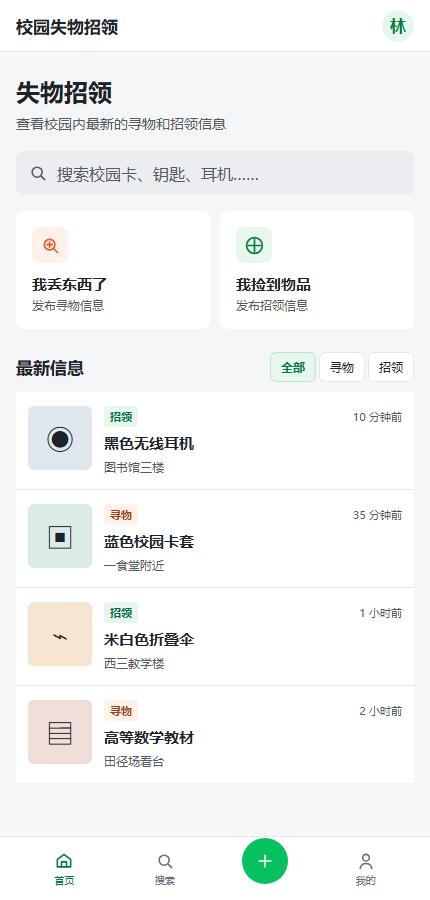
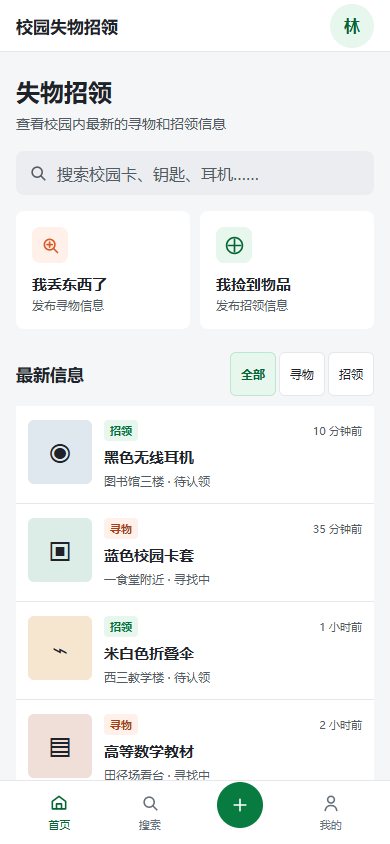
fix: 完善发布状态流程并记录11项回归与项目报告

diff --git a/style.css b/style.css
@@ -1,1 +1,6 @@
 :root{--bg:#f5f6f7;--surface:#fff;--text:#1f2329;--sub:#525a64;--line:#e5e7eb;--green:#087c40;--green-dark:#056532;--orange:#d95d27;font-family:"Microsoft YaHei","PingFang SC",system-ui,sans-serif;color:var(--text);background:#dfe3e6}*{box-sizing:border-box}body{margin:0;background:var(--bg)}button,input,select,textarea{font:inherit;color:inherit}.app-shell{width:min(100%,430px);min-height:100vh;margin:auto;background:var(--bg);position:relative;padding-bottom:76px}.topbar{height:52px;padding:0 16px;background:var(--surface);display:flex;align-items:center;justify-content:space-between;border-bottom:1px solid var(--line);position:sticky;top:0;z-index:5}.brand{border:0;background:none;font-size:17px;font-weight:700;padding:0;cursor:pointer}.avatar{width:32px;height:32px;border:0;border-radius:50%;background:#e7f7ee;color:var(--green-dark);font-weight:700;cursor:pointer}.page{display:none;padding:0 16px 24px;min-height:calc(100vh - 128px)}.page.active{display:block}.hero{padding:24px 0 16px}.hero h1,.page-title h1{font-size:24px;margin:0;font-weight:700}.hero>p{font-size:14px;color:var(--sub);margin:7px 0 18px}.search-entry,.search-box{width:100%;height:44px;border:0;border-radius:8px;background:#ebedf0;display:flex;align-items:center;gap:9px;padding:0 12px;color:var(--sub);box-shadow:none}.search-entry{cursor:pointer}.search-entry svg,.search-box svg,.back svg,.bottom-nav svg{width:20px;height:20px}svg{fill:none;stroke:currentColor;stroke-width:1.9;stroke-linecap:round;stroke-linejoin:round}.quick-actions{display:grid;grid-template-columns:1fr 1fr;gap:10px;margin:0 0 18px}.quick-actions button{border:0;border-radius:8px;background:var(--surface);padding:16px;text-align:left;cursor:pointer}.quick-actions strong,.quick-actions small{display:block}.quick-actions strong{margin-top:11px;font-size:15px}.quick-actions small{color:var(--sub);font-size:12px;margin-top:3px}.action-icon{width:36px;height:36px;border-radius:8px;display:grid;place-items:center}.action-icon svg{width:21px}.action-icon.coral{background:#fff0e9;color:var(--orange)}.action-icon.teal{background:#e7f7ee;color:var(--green-dark)}.section-head{display:flex;justify-content:space-between;align-items:center;margin:23px 0 10px}.section-head h2{font-size:17px;margin:0}.segmented{display:flex;gap:3px}.segmented button,.chips button{border:1px solid var(--line);background:var(--surface);border-radius:6px;padding:6px 10px;font-size:12px;cursor:pointer}.segmented .active{background:#e7f7ee;border-color:#b9e8ce;color:var(--green-dark);font-weight:700}.feed{display:grid;gap:1px;background:var(--line)}.item{width:100%;display:grid;grid-template-columns:64px 1fr;gap:12px;padding:14px 12px;border:0;background:var(--surface);text-align:left;cursor:pointer}.item-visual{height:64px;border-radius:6px;display:grid;place-items:center;font-size:28px}.item h3{margin:6px 0;font-size:15px}.item p{margin:0;color:var(--sub);font-size:12px}.item-top{display:flex;justify-content:space-between;align-items:center}.tag,.status-tag{font-size:11px;font-weight:700;padding:3px 6px;border-radius:4px}.tag.lost{background:#fff0e9;color:#a53d17}.tag.found{background:#e7f7ee;color:#04713a}.item time,.time{font-size:11px;color:var(--sub)}.page-title{display:flex;gap:12px;align-items:center;padding:18px 0}.page-title p{margin:3px 0 0;color:var(--sub);font-size:12px}.back{width:38px;height:38px;border:1px solid var(--line);background:var(--surface);border-radius:8px;display:grid;place-items:center;cursor:pointer}.search-box input{border:0;outline:0;background:none;flex:1}.search-box button{border:0;background:none;font-size:22px;color:var(--sub);cursor:pointer}.chips{display:flex;gap:8px;flex-wrap:wrap;margin:12px 0 22px}.search-meta{font-size:15px;font-weight:700;margin-bottom:10px}form{display:grid;gap:16px}fieldset{border:0;padding:0;margin:0}legend,form>label,.form-row label{font-size:13px;font-weight:700}form input,form select,form textarea{width:100%;border:1px solid var(--line);border-radius:7px;background:var(--surface);padding:12px;margin-top:7px;outline:none}form input:focus,form select:focus,form textarea:focus{border-color:var(--green)}form textarea{min-height:94px;resize:vertical}form label small{display:block;color:var(--sub);font-size:11px;font-weight:400;line-height:1.5;margin-top:5px}.form-row{display:grid;grid-template-columns:1fr 1fr;gap:10px}.type-choice{display:grid;grid-template-columns:1fr 1fr;gap:8px;margin-top:7px}.type-choice input{position:absolute;opacity:0}.type-choice span{display:block;border:1px solid var(--line);background:var(--surface);border-radius:7px;padding:11px;text-align:center}.type-choice input:checked+span{background:#e7f7ee;color:var(--green-dark);border-color:#9cddb9;font-weight:700}.primary,.secondary{width:100%;height:46px;border-radius:7px;font-weight:700;cursor:pointer}.primary{border:0;background:var(--green);color:white}.primary:hover{background:var(--green-dark)}.secondary{border:1px solid var(--line);background:var(--surface);margin-top:10px}.detail-cover{height:190px;margin:0 -16px;background:#e9edf0;position:relative;display:grid;place-items:center;font-size:78px}.back.floating{position:absolute;left:16px;top:14px}.detail-card{background:var(--surface);margin:0 -16px;padding:20px 16px}.tag-row{display:flex;justify-content:space-between}.detail-card h1{font-size:23px;margin:15px 0 9px}.detail-description{color:var(--sub);font-size:14px;line-height:1.7}.detail-card dl{margin:20px 0;border-top:1px solid var(--line)}.detail-card dl div{display:flex;justify-content:space-between;padding:13px 0;border-bottom:1px solid var(--line)}dt{color:var(--sub);font-size:12px}dd{margin:0;font-weight:700;font-size:12px}.safety{display:flex;gap:10px;background:#f2f9f5;border-radius:7px;padding:12px;margin-bottom:16px}.safety svg{width:23px;min-width:23px;color:var(--green-dark)}.safety p{margin:0;font-size:12px;line-height:1.55}.safety strong{display:block}.success-wrap{text-align:center;padding:100px 22px 0}.success-icon{width:68px;height:68px;border-radius:50%;display:grid;place-items:center;margin:auto;background:#e7f7ee;color:var(--green-dark)}.success-icon svg{width:35px}.success-wrap h1{font-size:26px;margin:22px 0 8px}.success-wrap p{color:var(--sub);font-size:14px;line-height:1.7;margin-bottom:26px}.profile{display:flex;align-items:center;gap:12px;background:var(--surface);padding:16px;margin-bottom:16px}.avatar.large{width:44px;height:44px;display:grid;place-items:center}.profile strong,.profile span{display:block}.profile span{color:var(--sub);font-size:12px;margin-top:3px}.bottom-nav{position:fixed;z-index:10;bottom:0;left:50%;transform:translateX(-50%);width:min(100%,430px);height:64px;background:var(--surface);border-top:1px solid var(--line);display:grid;grid-template-columns:1fr 1fr 1fr 1fr;align-items:center;padding:5px 14px}.bottom-nav button{border:0;background:none;display:grid;place-items:center;gap:2px;color:#66707a;font-size:11px;cursor:pointer}.bottom-nav button.active{color:var(--green-dark)}.bottom-nav .publish-fab{width:46px;height:46px;border-radius:50%;background:var(--green);color:white;justify-self:center;transform:translateY(-8px)}.bottom-nav .publish-fab svg{width:24px}.toast{position:fixed;left:50%;bottom:80px;transform:translate(-50%,10px);background:rgba(0,0,0,.78);color:white;padding:10px 14px;border-radius:6px;opacity:0;pointer-events:none;transition:.18s;z-index:20;font-size:12px}.toast.show{opacity:1;transform:translate(-50%,0)}.empty{background:var(--surface);margin:0;padding:30px;text-align:center;color:var(--sub)}:focus-visible{outline:3px solid rgba(7,193,96,.35);outline-offset:2px}::selection{background:#bdebcf;color:var(--text)}@media(min-width:1000px){body{padding:28px}.app-shell{min-height:880px}.bottom-nav{bottom:28px}.page{min-height:752px}}@media(prefers-reduced-motion:reduce){*{transition:none!important}}
+
+[hidden]{display:none!important}.search-box input{min-width:0;width:100%}.form-note{margin:0;color:var(--sub);font-size:12px;line-height:1.6}.item h3,.item p,.detail-card h1,dd{overflow-wrap:anywhere}.item>span:last-child{min-width:0}.segmented button,.chips button,.back,.avatar,.bottom-nav button{min-height:44px;min-width:44px}.type-choice input:focus-visible+span{outline:2px solid var(--green);outline-offset:2px}.toast{max-width:calc(100% - 32px);overflow-wrap:anywhere}.form-row{grid-template-columns:minmax(0,1fr) minmax(0,1fr)}
+[hidden]{display:none!important}
+.form-row label,.form-row input,.form-row select{min-width:0;max-width:100%}
+.type-choice label{position:relative}.type-choice input{width:1px;height:1px;margin:0;padding:0;left:0;top:0}

diff --git a/app.js b/app.js
@@ -7,16 +7,21 @@ const items=[
 const state={filter:'all',selected:items[0],mine:[items[1]]};
 const pages=[...document.querySelectorAll('.page')];
 const nav=[...document.querySelectorAll('.bottom-nav button[data-page]')];
-const itemCard=i=>`<button class="item" data-id="${i.id}"><span class="item-visual" style="background:${i.color}">${i.symbol}</span><span><span class="item-top"><span class="tag ${i.type}">${i.type==='lost'?'寻物':'招领'}</span><time>${i.time}</time></span><h3>${i.title}</h3><p>${i.place}</p></span></button>`;
+const escapeHTML=value=>String(value).replace(/[&<>"']/g,c=>({'&':'&amp;','<':'&lt;','>':'&gt;','"':'&quot;',"'":'&#39;'}[c]));
+const statusLabel=i=>i.resolved?(i.type==='lost'?'已找到':'已归还'):(i.type==='lost'?'寻找中':'待认领');
+const itemCard=i=>`<button class="item" data-id="${i.id}"><span class="item-visual" style="background:${i.color}">${i.symbol}</span><span><span class="item-top"><span class="tag ${i.type}">${i.type==='lost'?'寻物':'招领'}</span><time>${i.time}</time></span><h3>${escapeHTML(i.title)}</h3><p>${escapeHTML(i.place)} · ${statusLabel(i)}</p></span></button>`;
+function refreshFeeds(){renderFeed(state.filter==='all'?items:items.filter(i=>i.type===state.filter));renderFeed(state.mine,'mine-feed');search(document.getElementById('search-input').value);}
 function renderFeed(list=items,target='feed'){document.getElementById(target).innerHTML=list.length?list.map(itemCard).join(''):'<p class="empty">没有找到相关信息，换个关键词试试。</p>';}
 function showPage(id){pages.forEach(p=>p.classList.toggle('active',p.id===id));nav.forEach(b=>b.classList.toggle('active',b.dataset.page===id));document.querySelector('.bottom-nav').hidden=id==='success';window.scrollTo(0,0);}
-function showDetail(id){const i=items.find(x=>x.id===Number(id))||state.mine.find(x=>x.id===Number(id));state.selected=i;document.getElementById('detail-cover').style.background=i.color;document.getElementById('detail-symbol').textContent=i.symbol;const tag=document.getElementById('detail-type');tag.textContent=i.type==='lost'?'寻物信息':'招领信息';tag.className=`status-tag tag ${i.type}`;document.getElementById('detail-time').textContent=i.time;document.getElementById('detail-title').textContent=i.title;document.getElementById('detail-description').textContent=i.description;document.getElementById('detail-place').textContent=i.place;document.getElementById('detail-date').textContent=i.date;showPage('detail');}
+function showDetail(id){const i=items.find(x=>x.id===Number(id))||state.mine.find(x=>x.id===Number(id));if(!i)return;state.selected=i;document.getElementById('detail-cover').style.background=i.color;document.getElementById('detail-symbol').textContent=i.symbol;const tag=document.getElementById('detail-type');tag.textContent=i.type==='lost'?'寻物信息':'招领信息';tag.className=`status-tag tag ${i.type}`;document.getElementById('detail-time').textContent=i.time;document.getElementById('detail-title').textContent=i.title;document.getElementById('detail-description').textContent=i.description;document.getElementById('detail-place').textContent=i.place;document.getElementById('detail-date').textContent=i.date;document.getElementById('detail-status').textContent=statusLabel(i);const manage=document.getElementById('resolve-btn');manage.hidden=!state.mine.includes(i);manage.textContent=i.resolved?'恢复为未完成':(i.type==='lost'?'标记已找到':'标记已归还');showPage('detail');}
 function toast(text){const el=document.getElementById('toast');el.textContent=text;el.classList.add('show');setTimeout(()=>el.classList.remove('show'),1800)}
 document.addEventListener('click',e=>{const page=e.target.closest('[data-page]');if(page)showPage(page.dataset.page);const publish=e.target.closest('[data-publish-type]');if(publish){showPage('publish');document.querySelector(`[name=type][value=${publish.dataset.publishType}]`).checked=true}const card=e.target.closest('.item');if(card)showDetail(card.dataset.id);const chip=e.target.closest('.chips button');if(chip){document.getElementById('search-input').value=chip.textContent;search(chip.textContent)}});
 document.querySelectorAll('[data-filter]').forEach(b=>b.addEventListener('click',()=>{document.querySelectorAll('[data-filter]').forEach(x=>x.classList.toggle('active',x===b));state.filter=b.dataset.filter;renderFeed(state.filter==='all'?items:items.filter(i=>i.type===state.filter))}));
 function search(value){const q=value.trim().toLowerCase();const found=items.filter(i=>`${i.title}${i.place}${i.description}`.toLowerCase().includes(q));document.getElementById('search-meta').textContent=q?`找到 ${found.length} 条相关信息`:'推荐信息';renderFeed(q?found:items,'search-results')}
 document.getElementById('search-input').addEventListener('input',e=>search(e.target.value));document.getElementById('clear-search').addEventListener('click',()=>{document.getElementById('search-input').value='';search('')});
-document.getElementById('publish-form').addEventListener('submit',e=>{e.preventDefault();const data=new FormData(e.currentTarget);const newItem={id:Date.now(),type:data.get('type'),title:data.get('title'),place:data.get('place'),time:'刚刚',date:data.get('date'),symbol:'◇',color:'#e7e4d8',description:data.get('description')};items.unshift(newItem);state.mine.unshift(newItem);renderFeed();renderFeed(state.mine,'mine-feed');e.currentTarget.reset();showPage('success')});
-document.getElementById('contact-btn').addEventListener('click',()=>toast('联系方式：QQ 仅在真实应用中展示'));
-document.querySelector('[name=date]').value=new Date().toISOString().slice(0,10);renderFeed();renderFeed(items,'search-results');renderFeed(state.mine,'mine-feed');
+function setDefaultDate(){const now=new Date();document.querySelector('[name=date]').value=new Date(now.getTime()-now.getTimezoneOffset()*60000).toISOString().slice(0,10);}
+document.getElementById('publish-form').addEventListener('submit',e=>{e.preventDefault();const data=new FormData(e.currentTarget);for(const name of ['title','description','contact']){if(!String(data.get(name)).trim()){toast('请填写物品名称、特征和联系方式，不能只输入空格。');return;}}const newItem={id:Date.now(),type:data.get('type'),title:data.get('title').trim(),place:data.get('place'),time:'刚刚',date:data.get('date'),symbol:'◇',color:'#e7e4d8',description:data.get('description').trim(),contact:data.get('contact').trim(),resolved:false};items.unshift(newItem);state.mine.unshift(newItem);refreshFeeds();e.currentTarget.reset();setDefaultDate();showPage('success')});
+document.getElementById('contact-btn').addEventListener('click',()=>toast(state.selected.contact?`联系方式：${state.selected.contact}`:'示例信息未提供真实联系方式。'));
+document.getElementById('resolve-btn').addEventListener('click',()=>{if(!state.mine.includes(state.selected))return;state.selected.resolved=!state.selected.resolved;refreshFeeds();showDetail(state.selected.id);toast('状态已更新（本次会话内）');});
+setDefaultDate();refreshFeeds();
 const params=new URLSearchParams(location.search);if(params.has('capture'))document.documentElement.classList.add('capture');const preview=params.get('page');if(preview==='detail')showDetail(1);else if(preview&&document.getElementById(preview))showPage(preview);

diff --git a/index.html b/index.html
@@ -46,15 +46,17 @@
         <div class="page-title"><button class="back" data-page="home" aria-label="返回"><svg viewBox="0 0 24 24"><path d="m15 18-6-6 6-6"/></svg></button><div><h1 id="publish-title">发布信息</h1><p>准确的信息更容易被找到</p></div></div>
         <form id="publish-form">
           <fieldset><legend>信息类型</legend><div class="type-choice"><label><input type="radio" name="type" value="lost" checked><span>寻物</span></label><label><input type="radio" name="type" value="found"><span>招领</span></label></div></fieldset>
-          <label>物品名称<input name="title" required placeholder="例如：蓝色校园卡套"></label>
+          <p class="form-note">必填字段请完整填写。请使用虚构联系方式进行演示；新增信息仅保留在本次会话中。</p>
+          <label>物品名称（必填）<input name="title" required maxlength="60" placeholder="例如：蓝色校园卡套"></label>
           <div class="form-row"><label>时间<input name="date" type="date" required></label><label>地点<select name="place"><option>教学楼</option><option>图书馆</option><option>食堂</option><option>宿舍区</option><option>运动场</option><option>其他</option></select></label></div>
           <label>物品特征<textarea name="description" required maxlength="120" placeholder="颜色、品牌、明显特征等，避免填写隐私信息"></textarea><small>建议保留一项关键特征，用于核对认领人身份。</small></label>
-          <label>联系方式<input name="contact" required placeholder="QQ / 微信 / 手机号"></label>
+          <label>联系方式（必填）<input name="contact" required maxlength="80" placeholder="演示用虚构 QQ / 微信 / 手机号"></label>
           <button class="primary" type="submit">确认发布</button>
         </form>
       </section>
 
       <section class="page" id="detail" aria-labelledby="detail-title">
+        <button class="secondary" id="resolve-btn" hidden>更新状态</button>
         <div class="detail-cover" id="detail-cover"><button class="back floating" data-page="home" aria-label="返回"><svg viewBox="0 0 24 24"><path d="m15 18-6-6 6-6"/></svg></button><span id="detail-symbol"></span></div>
         <article class="detail-card"><div class="tag-row"><span class="status-tag" id="detail-type"></span><span class="time" id="detail-time"></span></div><h1 id="detail-title"></h1><p class="detail-description" id="detail-description"></p><dl><div><dt>发现 / 遗失地点</dt><dd id="detail-place"></dd></div><div><dt>发布时间</dt><dd id="detail-date"></dd></div><div><dt>当前状态</dt><dd id="detail-status">寻找中</dd></div></dl><div class="safety"><svg viewBox="0 0 24 24"><path d="M12 3 4 6v5c0 5 3.4 8.4 8 10 4.6-1.6 8-5 8-10V6z"/><path d="m9 12 2 2 4-5"/></svg><p><strong>安全提示</strong>认领时请核对物品特征，并选择校园公共区域交接。</p></div><button class="primary" id="contact-btn">联系发布者</button></article>
       </section>

diff --git a/项目报告.md b/项目报告.md
@@ -1,0 +1,108 @@
+| 项目内容 | 说明 |
+| --- | --- |
+| 这个作业属于哪个课程 | [2026 秋软件工程](https://edu.cnblogs.com/campus/fzu/2026-01SoftwareEngineeringandSoftwareEngineeringPractice) |
+| 这个作业要求在哪里 | [作业页面](https://edu.cnblogs.com/campus/fzu/2026-01SoftwareEngineeringandSoftwareEngineeringPractice/homework/16745) |
+| 这个作业的目标 | 完善校园失物招领交互流程，建立协作空间，完成测试与问题修复 |
+| 学号 | 052404129 |
+| 姓名 | 林彦羽 |
+| GitHub 仓库 | [项目仓库](https://github.com/LLL-1121/campus-lost-found-prototype) |
+| 在线演示 | [打开页面](https://lll-1121.github.io/campus-lost-found-prototype/) |
+
+# 校园失物招领：流程完善、测试与协作准备
+
+## 1. 项目与完成方式
+
+本项目针对校园寻物和招领信息分散、容易被群消息覆盖的问题，集中展示物品名称、特征、地点和时间。主要用户是失主和拾物者，核心流程为“发布信息 → 浏览或搜索 → 查看详情 → 联系发布者 → 更新处理状态”。
+
+本次由本人独立完成，Codex 辅助检查、修改和测试。仓库预留了真实协作者可以参与的任务与修改流程，目前没有第二名同学的实际工作记录。本报告不将 AI 辅助、自查或分支操作记作双人结对。
+
+本次交付为 HTML、CSS、JavaScript 浏览器交互原型。新增信息保存在页面内存中，刷新后恢复示例数据；没有 Python API、SQLite 持久化、登录认证或跨设备同步。参考材料中的多图上传、数据库迁移、权限系统等不属于本次实现。若课程要求完整后台或实际两人合作，仍需补齐相应要求。
+
+## 2. 需求与实现
+
+首页按寻物、招领类型筛选；搜索页匹配名称、地点和描述，并显示空结果。发布页要求填写名称、日期、地点、特征及联系方式；提交后进入成功页，在首页、搜索和我的发布中可查看新增信息。详情页展示状态，本人发布的信息可以标记“已找到”或“已归还”，也可以恢复为未完成。示例他人信息隐藏状态按钮。
+
+信息由 JavaScript 对象表示，使用 id、type、title、place、date、description、contact、resolved 等字段。列表统一由 renderFeed() 绘制；refreshFeeds() 同步首页筛选、搜索和我的发布，避免只更新一个视图。数据处理先检查必填文本去除空格后是否为空，再生成信息对象。列表中的用户文字统一转义，详情使用 textContent，避免输入被解释为 HTML。
+
+```javascript
+const statusLabel = i => i.resolved
+  ? (i.type === 'lost' ? '已找到' : '已归还')
+  : (i.type === 'lost' ? '寻找中' : '待认领');
+```
+
+“本人”身份通过当前会话内的我的发布列表判断，适用于演示流程，不能替代服务端权限校验。联系方式仅使用虚构测试值，不上传真实个人信息。
+
+![用户流程](images/user-flow.svg)
+
+## 3. 页面展示
+
+![首页](images/home.png)
+
+![搜索](images/search.png)
+
+![详情](images/detail.png)
+
+![发布](images/publish.png)
+
+![发布成功](images/success.png)
+
+![320 像素窄屏发布页面](images/mobile-320.png)
+
+截图由实际浏览器自动化运行生成。页面沿用白色背景、绿色按钮和单列列表，不另取产品名字。
+
+## 4. 三次真实 AI 辅助过程
+
+| 子任务 | 提出的要求 | AI 实际完成 | 结果与调整 |
+| --- | --- | --- | --- |
+| 协作准备 | 预留可共享、可修改空间 | 增加 CONTRIBUTING、Issue 和 PR 模板，建立三个待认领任务 | 已合并；明确当前独立完成，未虚构搭档 |
+| 需求流程检查 | 完成三个任务并记录结果 | 检查实际代码，发现联系方式丢失、状态入口缺失和筛选不同步 | 保存 contact，增加本人状态操作和统一视图刷新 |
+| 测试与修复 | 检查发布、搜索和移动端 | 编写并运行 11 项 Edge 浏览器回归，发现 320 像素宽度表单溢出 | 定位隐藏单选框全宽定位，修复后全部通过 |
+
+以上记录来自本次实际操作。人工是否进行进一步修改尚未记录，不能把 AI 完成的修改写成人工改动。
+
+## 5. 测试结果
+
+环境：Windows，Microsoft Edge 无界面自动化，Playwright。最终运行时间为 2026-10-09 22:10:15—22:10:17（北京时间，完整时间见 tests/results.json）。这是桌面浏览器调整视口的测试，不是真机触摸测试。
+
+| 编号 | 测试内容 | 预期结果 | 实际结果 |
+| --- | --- | --- | --- |
+| T01 | 首页卡片进入详情 | 4 条初始信息，招领显示待认领，他人信息不可更新状态 | 通过 |
+| T02 | 名称与地点搜索 | 耳机、图书馆均命中对应信息 | 通过 |
+| T03 | 无结果及清空搜索 | 显示空提示，清空恢复推荐信息 | 通过 |
+| T04 | 空表单提交 | 原生必填校验阻止提交 | 通过 |
+| T05 | 全空格名称 | 拒绝并提示填写有效内容 | 通过 |
+| T06 | 合法发布 | 显示成功，我的发布新增记录，日期默认值恢复 | 通过 |
+| T07 | 联系方式和状态 | 虚构联系方式保留，已找到与寻找中可切换 | 通过 |
+| T08 | 筛选与招领完成 | 发布后保留招领筛选，完成文案为已归还 | 通过 |
+| T09 | HTML 形式名称 | 显示原文字，不生成图片节点 | 通过 |
+| T10 | 320/390/768/1440 宽度 | 首页、搜索、发布、我的均无横向溢出 | 修复后通过 |
+| T11 | 刷新及脚本错误 | 恢复 4 条示例信息，无页面脚本错误 | 通过 |
+
+首次 T10 失败：隐藏单选框继承 form input 的 width:100%，绝对定位后超出窄屏。修复为相对定位的标签与 1 像素隐藏输入后，完整回归通过。新增状态按钮的 hidden 属性也使用显式样式处理，避免 display 规则覆盖隐藏状态。
+
+运行测试：安装 Node.js 与开发测试工具 Playwright 后，执行 `node tests/regression.cjs`。测试使用机器上已经安装的 Edge，生产页面不依赖 Playwright。结果和截图由脚本生成，测试记录可复核。
+
+## 6. 仓库协作与签入
+
+仓库采用“任务 → 功能分支 → PR → 自查或真实协作者审查 → 合并”的流程。后续参与者可以 fork 仓库并提交 PR；直接写入需由维护者邀请真实账号。需求、页面和测试三类工作分别对应 Issue #2、#3、#4，本次由本人在 AI 辅助下处理。
+
+协作指南见 CONTRIBUTING.md；任务模板要求目标、范围、验收和实际记录；PR 模板要求运行验证与复核身份。本次 PR #1 已建立协作空间，后续修复和报告使用独立分支提交。仓库记录证明工作变化，不证明存在第二名同学。
+
+## 7. PSP 记录
+
+没有可靠计时的阶段不填写推测的实际耗时。下表用于后续人工补录；建议预算为事后规划参考，不声称是开发前的预估。原型早期草稿中的耗时也未在本次核实。
+
+| 阶段 | 建议预算（分钟） | 实际耗时 |
+| --- | ---: | --- |
+| 需求与流程复核 | 20 | 未连续计时 |
+| 代码检查与问题修复 | 40 | 未连续计时 |
+| 测试脚本与布局检查 | 30 | 未连续计时 |
+| 最终自动回归运行 | 1 | 约 1.56 秒（工具时间戳） |
+| 报告与仓库整理 | 25 | 未连续计时 |
+| 合计 | 116 | 无法可靠汇总 |
+
+## 8. 总结与后续
+
+这轮工作说明，界面可以点击不代表流程完整：联系方式是否保存、状态文案是否区分寻物和招领、筛选是否保持一致，都需要实际检查。自动化回归把正常操作与边界输入放在同一套可重复流程中，帮助发现窄屏布局问题。AI 能提高定位和修改速度，但测试结果仍需证据支持。
+
+后续实现完整应用时，应优先增加持久化和服务端权限校验，再考虑图片、分类筛选与多设备使用。本人的进一步试玩、实际耗时及真实搭档总结尚需本人补充。该报告记录当前仓库实际完成情况，不将演示原型描述为生产系统。

diff --git a/README.md b/README.md
@@ -21,6 +21,16 @@ python -m http.server 8080
 
 本原型仅使用 HTML、CSS 与 JavaScript，无第三方依赖，也不收集或发送真实联系方式。
 
+新增信息与联系方式仅保留在本次页面会话；刷新会恢复示例数据。请使用虚构联系方式演示。本人信息详情可切换“已找到 / 已归还”和未完成状态，示例他人信息没有管理按钮。当前没有后端、持久化或真实登录权限。
+
+## 本轮测试与报告
+
+- [完整项目报告](项目报告.md)：真实 AI 协作记录、问题修复、11 项回归、截图与 PSP 记录边界。
+- [自动化结果](tests/results.json)：Microsoft Edge 浏览器测试全部通过。
+- 测试脚本 `tests/regression.cjs` 使用 Node.js、Playwright 与已安装的 Edge，执行 `node tests/regression.cjs`。可用 `npm install --no-save --package-lock=false playwright` 安装开发测试工具；生产页面仍无需依赖。
+
+![首页截图](images/home.png)
+
 ## 协作空间
 
 当前由林彦羽（052404129）独立完成，尚无实际参与的第二名开发者。仓库已预留后续协作流程，任务、分支和自查记录不代表已经完成双人结对。
